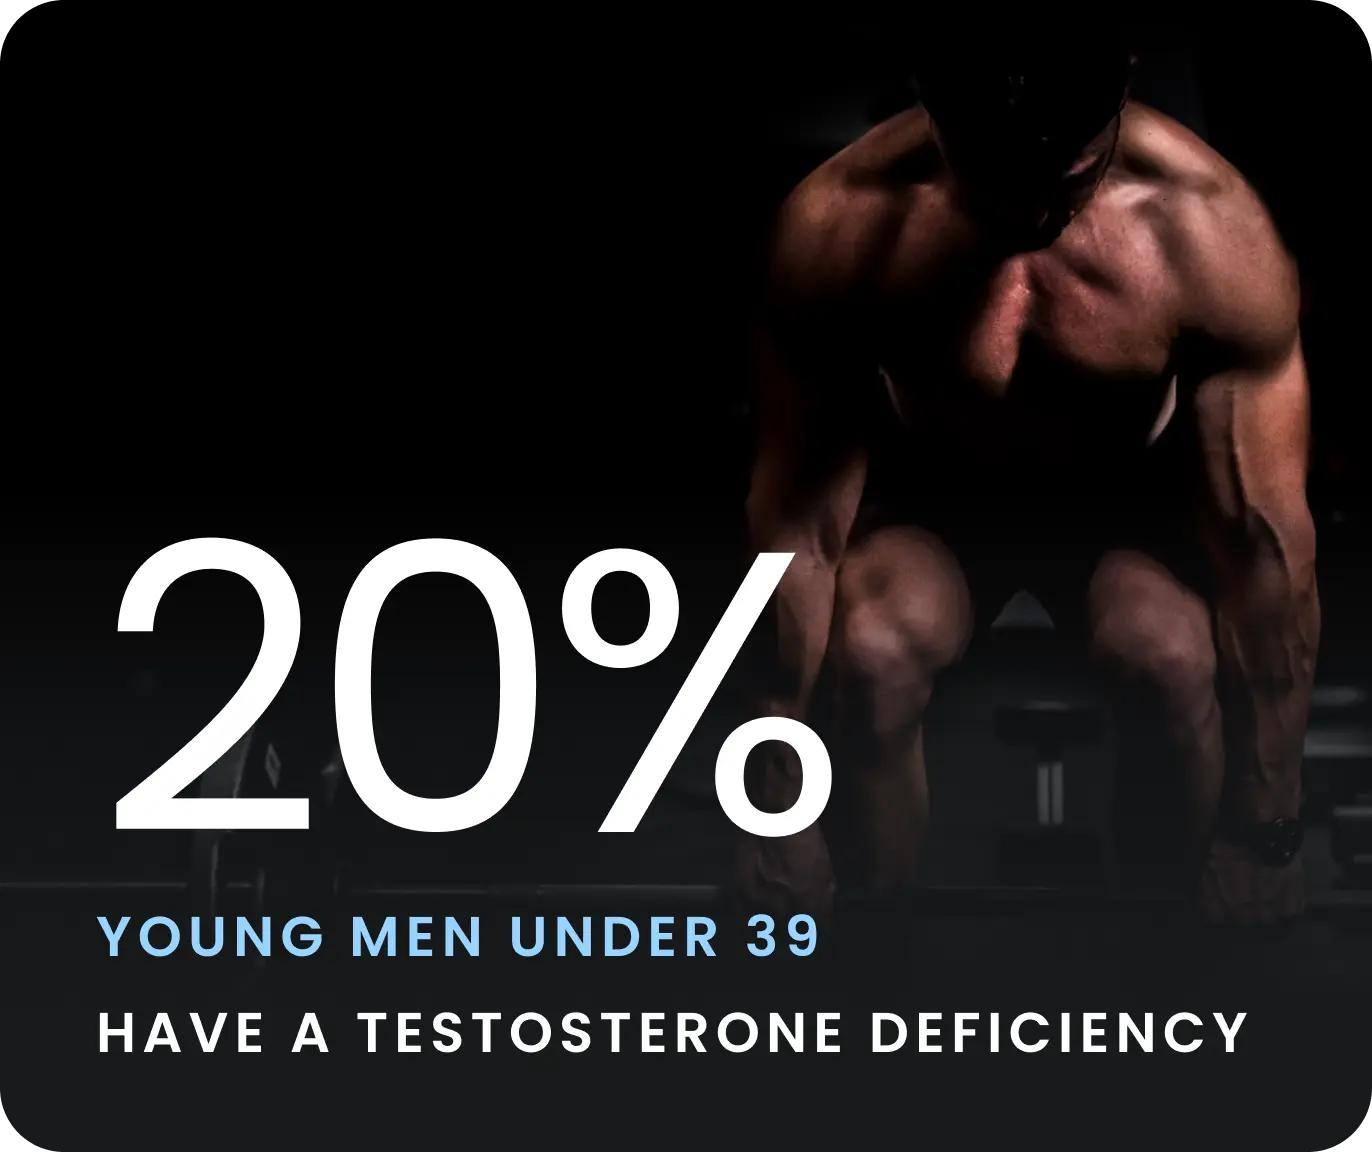
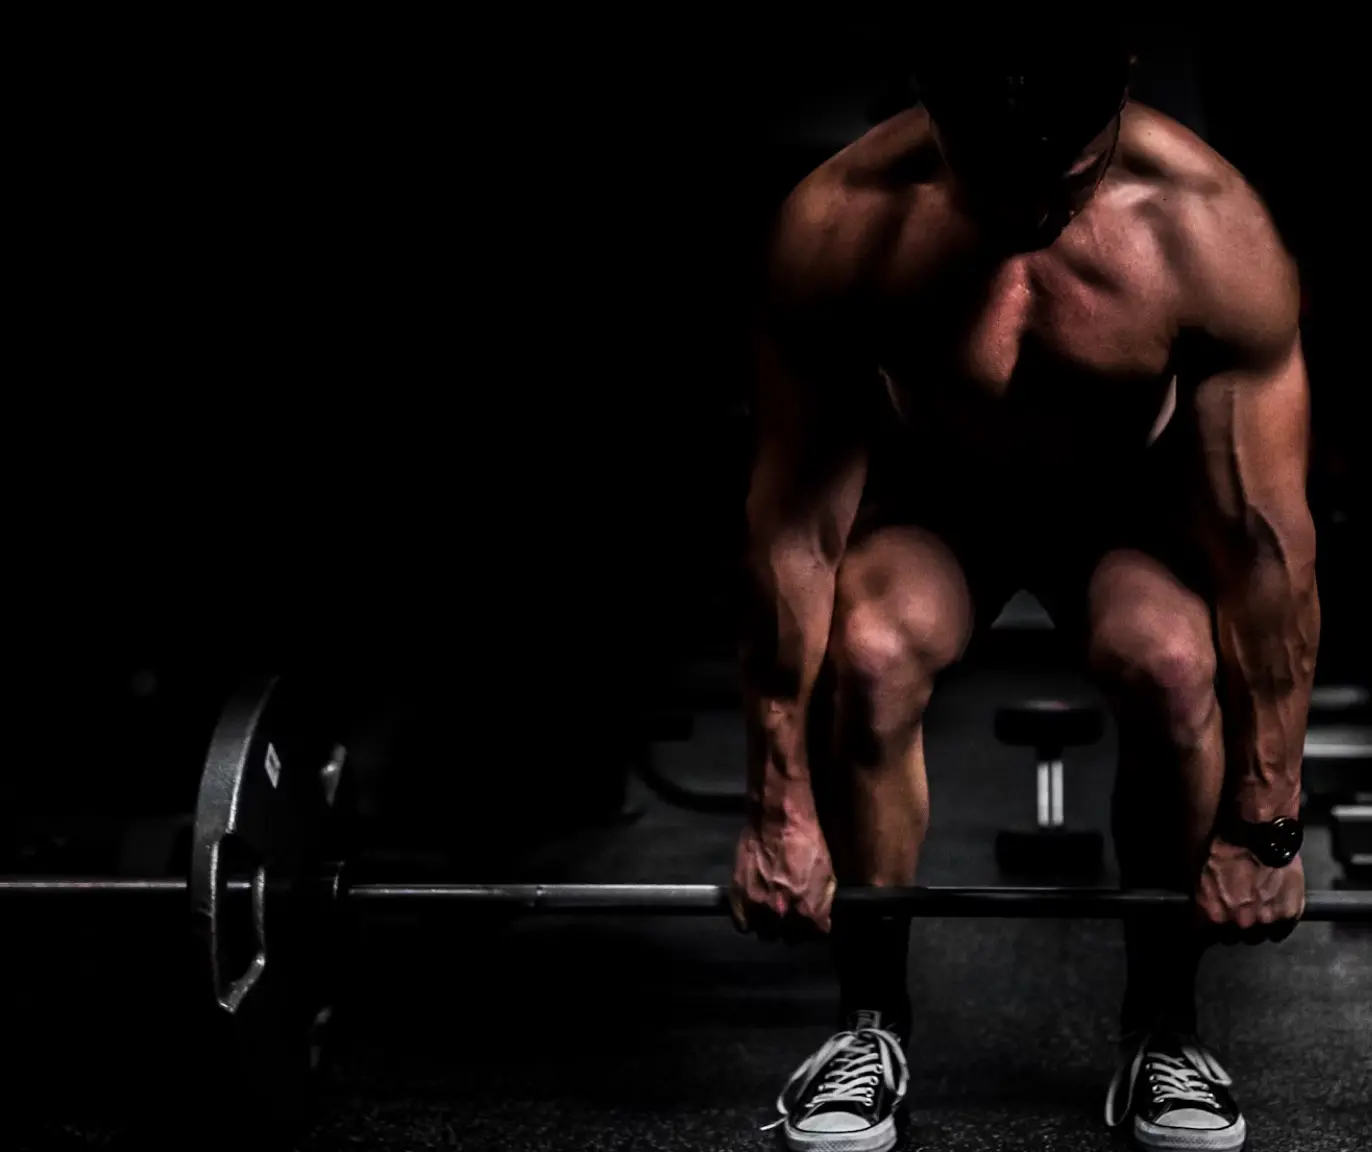
fix issue

diff --git a/src/components/Solutions/WellnessPro.tsx b/src/components/Solutions/WellnessPro.tsx
@@ -9,6 +9,10 @@ const sections = [
       "1 of every 4 men over the age of 30 have a testosterone deficiency. Further, 1 in every three adults are overweight. Geviti offers the ultimate solution for health and wellness.",
     image: "/images/solution_media/low-case.webp",
     mobileimage: "/images/solution_media/low-case-mobile.webp",
+    counting: "20",
+    million: "Million",
+    state: "Men In the united states",
+    age: "from ages 25-75 have low T",
   },
   {
     title: "Testosterone deficiencies are common",
@@ -17,6 +21,10 @@ const sections = [
       "It’s a misconception that your testosterone only drops in your older years. More young men struggle with testosterone deficiencies than ever before.",
     image: "/images/solution_media/hormone-optimization.webp",
     mobileimage: "/images/solution_media/hormone-optimization-mobile.webp",
+    counting: "20%",
+    million: null,
+    state: "YOUNG MEN under 39",
+    age: "have a testosterone deficiency",
   },
 ];
 const WellnessPro = () => {
@@ -27,7 +35,7 @@ const WellnessPro = () => {
           {sections.map((section, index) => (
             <div
               key={index}
-              className="md:bg-white rounded-[19px] px-4 md:px-6 md:py-[42px] z-10"
+              className="md:bg-white rounded-[19px] px-4 md:px-6 md:py-[42px] z-10 relative"
             >
               <p className="text-grey-primary !text-[10px] md:text-sm font-semibold leading-[150%] md:leading-[171.429%] uppercase tracking-[1.1px] md:tracking-[1.54px] font-Poppins">
                 {section.title}
@@ -38,21 +46,37 @@ const WellnessPro = () => {
               <span className="text-gray-400 text-sm md:text-sm font-normal leading-[142%] lg:max-w-[446px] w-full font-Poppins inline-block mt-4 md:mt-3">
                 {section.description}
               </span>
-              <div className="lg:max-w-[648px] w-full mt-[18px] md:mt-10 lg:mt-14 ">
+              <div className="lg:max-w-[648px] w-full mt-[18px] md:mt-10 lg:mt-14 relative h-[288px]">
                 <Image
-                  className="w-full rounded-[19px] md:h-full h-[288px] sm:block hidden"
+                  style={{ backgroundSize: "100% 100%" }}
+                  className="w-full h-full rounded-[19px] absolute appearance-none sm:block hidden"
                   src={section.image}
                   alt="img"
                   width={648}
                   height={648}
                 />
                 <Image
-                  className="w-full rounded-[19px] md:h-full h-[288px] sm:hidden block "
+                  style={{ backgroundSize: "100% 100%" }}
+                  className="w-full h-full rounded-[19px] absolute appearance-none sm:hidden block "
                   src={section.mobileimage}
                   alt="img"
                   width={648}
                   height={648}
                 />
+                <div className="relative z-10 md:p-6 p-[18px] flex flex-col justify-end items-start h-full">
+                  <h2 className="text-[100px] font-normal text-white font-Poppins tracking-[-4px] leading-[70%] mb-[14px]">
+                    {section.counting}
+                    <span className="text-4xl tracking-[-1.44px] font-Poppins">
+                      {section.million}
+                    </span>
+                  </h2>
+                  <p className=" text-[#99D4FF] !text-sm font-semibold leading-[150%] uppercase tracking-[1.54px] font-Poppins">
+                    {section.state}
+                  </p>
+                  <p className=" text-white !text-sm font-semibold leading-[150%] uppercase tracking-[1.54px] font-Poppins">
+                    {section.age}
+                  </p>
+                </div>
               </div>
             </div>
           ))}
